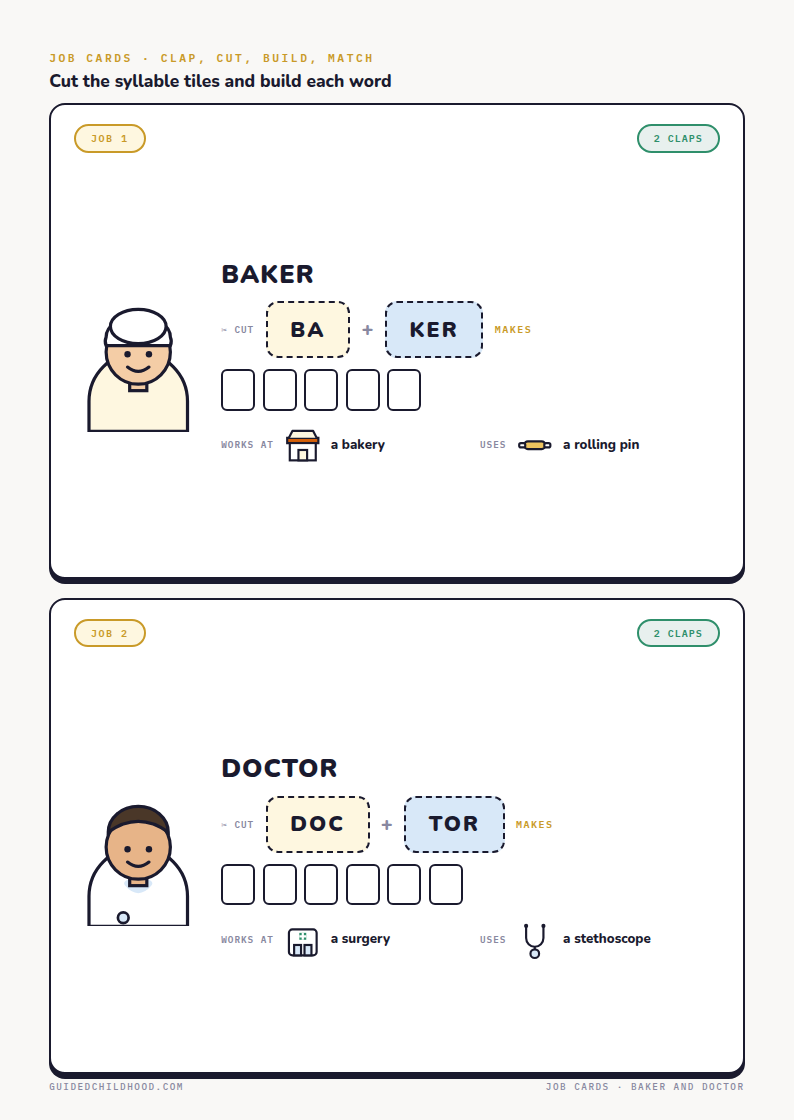
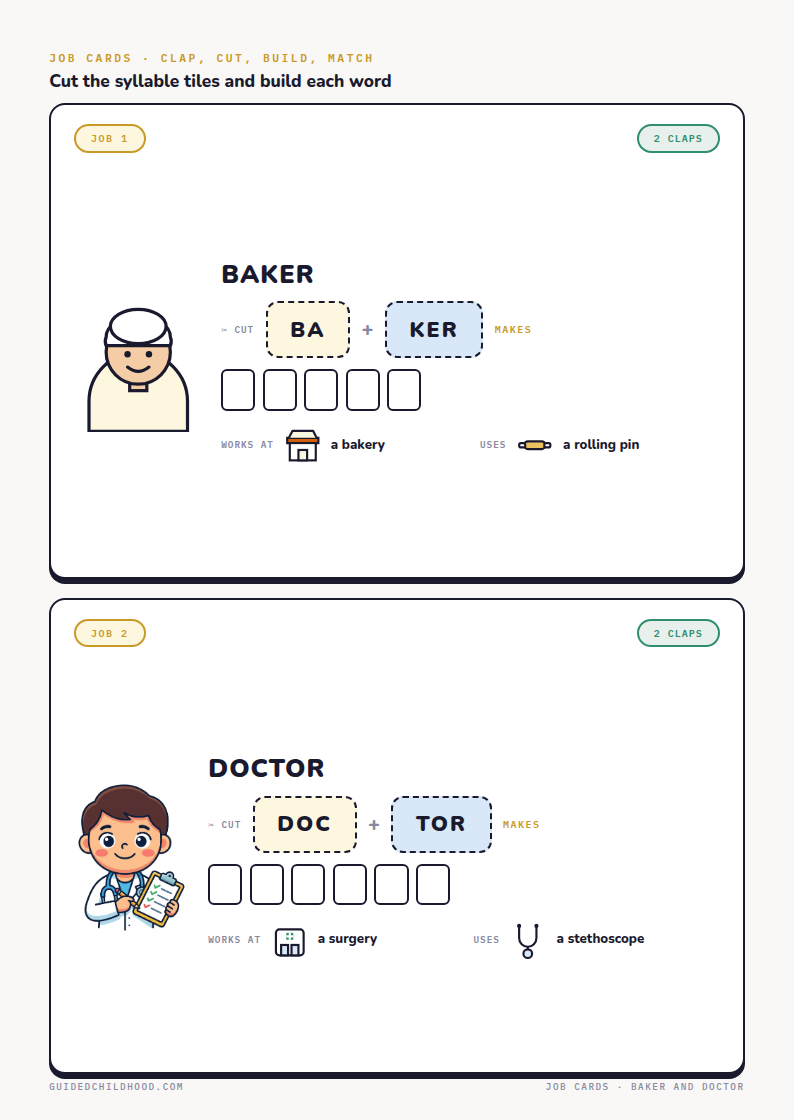
Add real doctor illustration to What Do They Do (7 of 8)
Bring the doctor job card onto a real illustration too, cropping the
decorative frame off the earlier render and floodfilling its background to
transparent. Baker stays on the SVG worker until a baker render syncs to
the Drive folder (none has yet). Rebuilt the colour PDFs and previews.

Claude-Session: https://claude.ai/code/session_01UM68MzWrL1nbc1mHRhdqVp

Changed region(s): [[0.272, 0.6562, 0.6952, 0.875], [0.0907, 0.6875, 0.2418, 0.8438], [0.6045, 0.8125, 0.8161, 0.875]]

diff --git a/content/printables/what-do-they-do/print.html b/content/printables/what-do-they-do/print.html
@@ -257,9 +257,10 @@
   <div style="height:5mm;"></div>
 
   <!-- JOB 2 DOCTOR -->
-  <div class="jobcard">
+  <div class="jobcard has-photo">
     <div class="jobhead"><span class="zchip">Job 2</span><span class="claps">2 claps</span></div>
     <div class="jobbody">
+      <img class="worker-photo" src="images/jobs/clean/doctor.png" alt="A friendly doctor with a stethoscope and a clipboard">
       <svg class="art worker-svg" viewBox="0 0 120 132">
         <path class="noline" d="M14 132 V104 a46 46 0 0 1 92 0 V132 Z" fill="var(--white)" stroke="var(--ink)" stroke-width="3"/>
         <path d="M50 92 q10 12 20 0" fill="none" stroke="var(--tint-blue)" stroke-width="6" stroke-linecap="round"/>

diff --git a/content/printables/what-do-they-do/README.md b/content/printables/what-do-they-do/README.md
@@ -62,13 +62,15 @@ line art so children colour clean outlines, so both editions coexist in one
 print.html (CSS: `.jobcard.has-photo .worker-svg` is hidden in colour mode,
 `.worker-photo` is hidden in colour in mode).
 
-Six jobs are illustrated: farmer, teacher, builder, vet, chef, postie. Baker and
-doctor still fall back to the SVG worker in colour mode: the first baker render
-never synced to Drive and both doctor renders were flawed (one framed bust, one
-with baked in text). Clean replacements are queued in Higgsfield (baker job
-`8cd8281d`, doctor job `29c44a10`); once synced to the Drive folder and dropped
-into `images/jobs/clean/` as `baker.png` and `doctor.png`, add `has-photo` plus a
-`worker-photo` img to job cards 1 and 2 and rebuild.
+Seven jobs are illustrated: doctor, farmer, teacher, builder, vet, chef, postie.
+The doctor is the `e248ce05` render with its decorative frame inset cropped and
+the background floodfilled to transparent (canvas processor), so it reads as a
+bust rather than full body but sits cleanly on the card. Baker is the only card
+still on the SVG worker in colour mode: no baker render ever synced to Drive (the
+first baker `ffc72380` and the hardened retry `8cd8281d` are both in Higgsfield
+but not in the Drive folder). Once a baker render lands in the folder, drop it in
+`images/jobs/clean/` as `baker.png`, add `has-photo` plus a `worker-photo` img to
+job card 1, and rebuild for the full eight.
 
 ## Assets
 - `images/Zara.png` — Zara's real character art (cover and avatar).